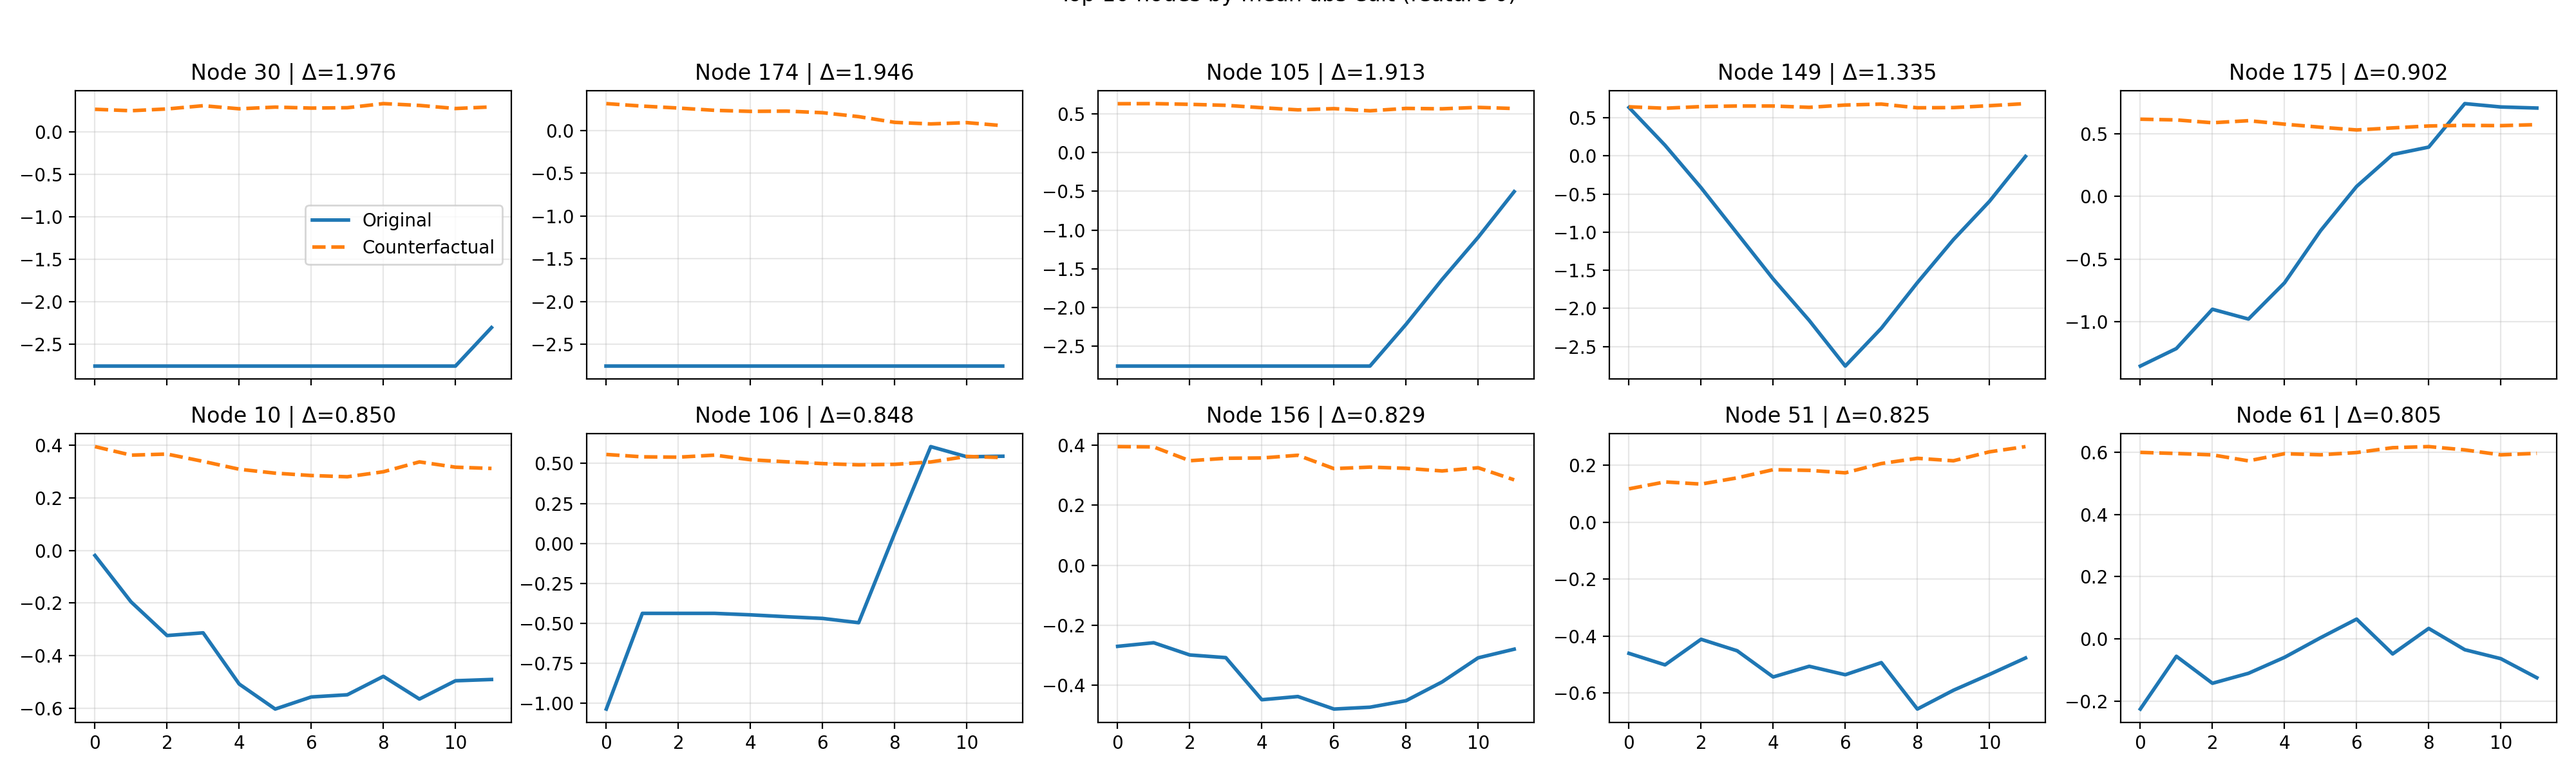
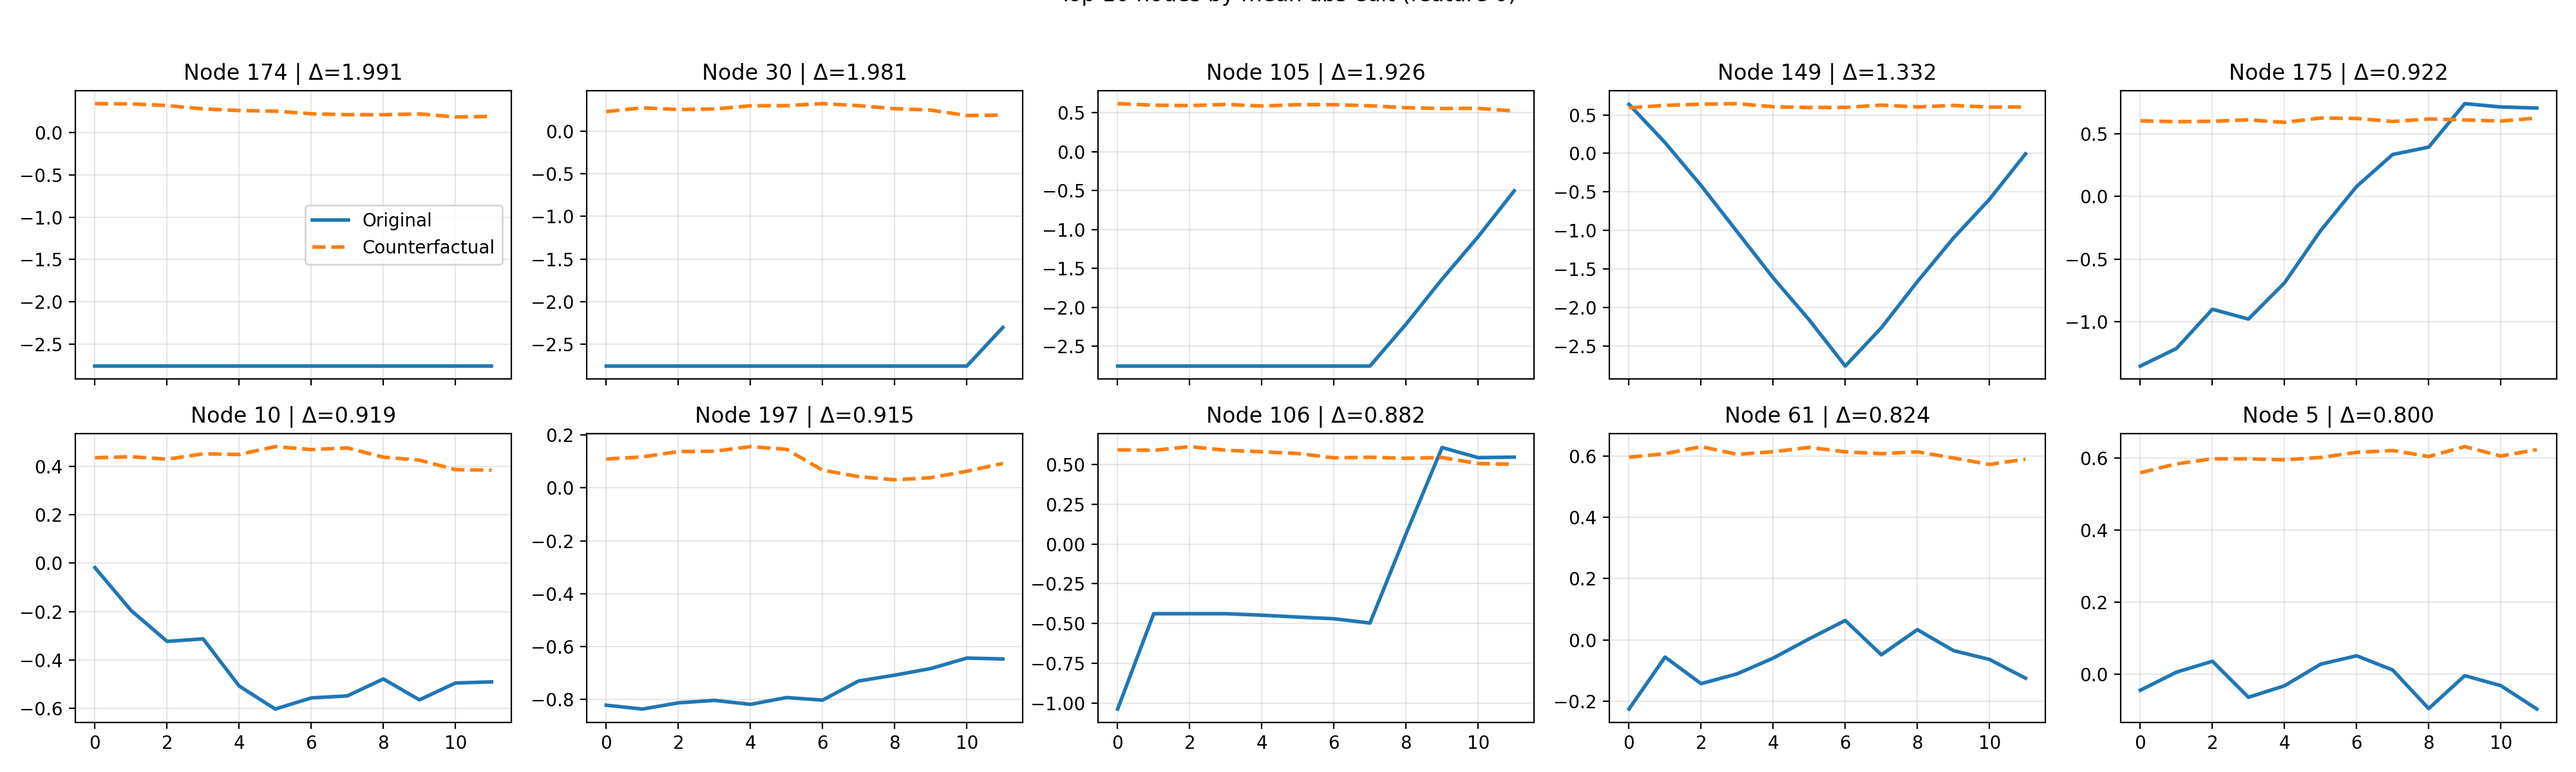
Add diffusion-based guidance trajectory imputation to main.py
- Introduced new arguments for guidance imputation steps and schedule.
- Implemented diffusion imputation methods for temporal paths.
- Updated guidance target construction to utilize diffusion techniques.
- Modified existing logic to accommodate new imputation approach.

diff --git a/main.py b/main.py
@@ -25,6 +25,7 @@ from counterfactual import (
     SpatioTemporalUNet,
 )
 from counterfactual.guidance import prepare_forecaster_input
+from counterfactual.noise_schedule import build_beta_schedule, prepare_diffusion_terms
 from preprocessing.data_reader import TemporalDatasetBundle, load_dataset
 from train import build_dataloaders, train_pipeline, test_pipeline
 
@@ -244,6 +245,19 @@ def add_counterfactual_subcommand(subparsers: argparse._SubParsersAction[argpars
         type=float,
         default=1.5,
         help="Exponent that shapes how quickly anchor weights decay toward the horizon (values > 1 hold longer).",
+    )
+    parser.add_argument(
+        "--guidance_impute_steps",
+        type=int,
+        default=64,
+        help="Number of diffusion steps to use when imputing the guidance trajectory between anchors.",
+    )
+    parser.add_argument(
+        "--guidance_impute_schedule",
+        type=str,
+        choices=["linear", "cosine"],
+        default="cosine",
+        help="Noise schedule used for diffusion-based guidance imputation.",
     )
     parser.set_defaults(handler=run_counterfactual_command)
     return parser
@@ -496,6 +510,120 @@ def adjust_target(
     if offset != 0.0:
         adjusted[indices, -1] = adjusted[indices, -1] + offset
     return adjusted
+
+
+def _temporal_smooth_1d(x: torch.Tensor) -> torch.Tensor:
+    if x.numel() <= 1:
+        return x
+    left = torch.cat([x[:1], x[:-1]])
+    right = torch.cat([x[1:], x[-1:]])
+    return (left + x + right) / 3.0
+
+
+def diffusion_impute_path(
+    start_value: torch.Tensor,
+    end_value: torch.Tensor,
+    prior_path: torch.Tensor,
+    betas: torch.Tensor,
+    smooth_weight: float = 0.65,
+    prior_weight: float = 0.35,
+) -> torch.Tensor:
+    """Diffusion-style imputation of a 1D temporal path with fixed endpoints."""
+
+    device = prior_path.device
+    dtype = prior_path.dtype
+    horizon = prior_path.shape[0]
+    if horizon == 0:
+        return prior_path.clone()
+
+    terms = prepare_diffusion_terms(betas)
+    terms = {k: v.to(device=device, dtype=dtype) for k, v in terms.items()}
+
+    anchor_mask = torch.zeros(horizon, device=device, dtype=dtype)
+    anchor_mask[0] = 1.0
+    anchor_mask[-1] = 1.0
+    anchor_values = torch.zeros_like(prior_path)
+    anchor_values[0] = start_value
+    anchor_values[-1] = end_value
+
+    # Initialize with anchors + noisy prior.
+    x = anchor_mask * anchor_values + (1 - anchor_mask) * prior_path
+    x = terms["sqrt_alphas_cumprod"][-1] * x + terms["sqrt_one_minus_alphas_cumprod"][-1] * torch.randn_like(x)
+
+    smooth_weight = float(min(max(smooth_weight, 0.0), 1.0))
+    prior_weight = float(min(max(prior_weight, 0.0), 1.0))
+    free_weight = max(0.0, 1.0 - (smooth_weight + prior_weight))
+
+    for t_idx in range(betas.numel() - 1, -1, -1):
+        smooth = _temporal_smooth_1d(x)
+        x0_pred = prior_weight * prior_path + smooth_weight * smooth + free_weight * x
+        x0_pred = anchor_mask * anchor_values + (1 - anchor_mask) * x0_pred
+
+        sqrt_alpha_bar = terms["sqrt_alphas_cumprod"][t_idx]
+        sqrt_one_minus_alpha_bar = torch.clamp(terms["sqrt_one_minus_alphas_cumprod"][t_idx], min=1e-8)
+        betas_t = terms["betas"][t_idx]
+        sqrt_recip_alpha = terms["sqrt_recip_alphas"][t_idx]
+        posterior_variance_t = terms["posterior_variance"][t_idx]
+
+        eps = (x - sqrt_alpha_bar * x0_pred) / sqrt_one_minus_alpha_bar
+        model_mean = sqrt_recip_alpha * (x - betas_t / sqrt_one_minus_alpha_bar * eps)
+
+        if t_idx == 0:
+            x = model_mean
+        else:
+            noise = torch.randn_like(x)
+            x = model_mean + torch.sqrt(posterior_variance_t) * noise
+
+        # Reinforce anchors after each denoise step.
+        x = anchor_mask * anchor_values + (1 - anchor_mask) * x
+
+    return x
+
+
+def build_diffusion_guidance_target(
+    baseline: torch.Tensor,
+    adjusted_target: torch.Tensor,
+    past_window: torch.Tensor,
+    target_node: int,
+    target_channel: int,
+    impute_steps: int = 64,
+    beta_schedule: str = "cosine",
+    beta_start: float = 1e-4,
+    beta_end: float = 0.02,
+) -> torch.Tensor:
+    """
+    Form a guidance trajectory by anchoring the first point to the last observed lag value
+    and the last point to the adjusted target, then imputing the in-between steps via diffusion.
+    """
+
+    if baseline.shape != adjusted_target.shape:
+        raise ValueError("baseline and adjusted_target must share the same shape for diffusion guidance")
+    horizon = baseline.shape[1]
+    if horizon == 0:
+        return baseline.clone()
+
+    num_nodes = baseline.shape[0]
+    if target_node >= num_nodes or target_node < -1:
+        raise ValueError(f"target_adjust_node {target_node} is out of range for {num_nodes} nodes")
+
+    impute_steps = int(max(1, impute_steps))
+    betas = build_beta_schedule(beta_schedule, impute_steps, beta_start=beta_start, beta_end=beta_end).to(baseline.device)
+    guidance = baseline.clone()
+
+    if target_channel < 0 or target_channel >= past_window.shape[-1]:
+        raise ValueError(f"target_channel {target_channel} is out of range for past window features {past_window.shape[-1]}")
+
+    start_values = past_window[-1, :, target_channel].to(baseline.device, baseline.dtype)
+    target_nodes = range(num_nodes) if target_node < 0 else [target_node]
+
+    for node in target_nodes:
+        start_val = start_values[node]
+        end_val = adjusted_target[node, -1].to(baseline.device, baseline.dtype)
+        prior_path = baseline[node]
+        imputed = diffusion_impute_path(start_val, end_val, prior_path, betas)
+        guidance[node] = imputed
+
+    return guidance
 
 
 def build_guidance_target(
@@ -865,6 +993,10 @@ def run_counterfactual_command(args: argparse.Namespace) -> None:
         )
     baseline_forecast = truncate_horizon(baseline_forecast, cf_horizon)
 
+    target_ch = dataset_meta.get("target_channel", 0)
+    if target_ch < 0 or target_ch >= past_window.shape[-1]:
+        raise ValueError(f"target_channel {target_ch} is out of range for past window features {past_window.shape[-1]}")
+
     if args.use_predicted_target:
         target_source = baseline_forecast.clone()
     else:
@@ -874,27 +1006,19 @@ def run_counterfactual_command(args: argparse.Namespace) -> None:
         adjust_target(target_source, args.target_adjust_percent, args.target_adjust_offset, args.target_adjust_node).float(),
         cf_horizon,
     )
-    lag_start = None
-    if args.guidance_start_source == "lag":
-        target_ch = dataset_meta.get("target_channel", 0)
-        if target_ch < 0 or target_ch >= past_window.shape[-1]:
-            raise ValueError(f"target_channel {target_ch} is out of range for past window features {past_window.shape[-1]}")
-        lag_start = past_window[:, :, target_ch].float()[0]
-        lag_length = past_window.shape[0]
-    else:
-        lag_length = past_window.shape[0]
     if args.target_path is not None:
         guidance_target = adjusted_target.clone()
     else:
-        guidance_target = build_guidance_target(
+        guidance_target = build_diffusion_guidance_target(
             baseline_forecast,
             adjusted_target,
+            past_window,
             args.target_adjust_node,
-            start_source=args.guidance_start_source,
-            start_target=default_target,
-            interpolation=args.guidance_interpolation,
-            lag_start=lag_start,
-            lag_length=lag_length,
+            target_ch,
+            impute_steps=args.guidance_impute_steps,
+            beta_schedule=args.guidance_impute_schedule,
+            beta_start=diffusion.config.beta_start,
+            beta_end=diffusion.config.beta_end,
         )
     anchor_start = max(args.anchor_start_weight, 0.0)
     anchor_end = max(args.anchor_end_weight, 0.0)
@@ -912,6 +1036,9 @@ def run_counterfactual_command(args: argparse.Namespace) -> None:
     if args.target_adjust_node >= 0:
         node_weights = compute_hop_node_weights(bundle.adjacency, args.target_adjust_node, args.target_focus_percent)
     mask = prepare_mask(past_window.shape[0], bundle.num_nodes, bundle.num_features, args.mask_path)
+    if args.target_adjust_node >= 0:
+        # Prevent direct edits to the target node; guidance can only modify other nodes.
+        mask[:, args.target_adjust_node, :] = 0.0
 
     sample_shape = torch.Size(past_window.shape)  # (T, N, F)
     mask = mask.to(device)
